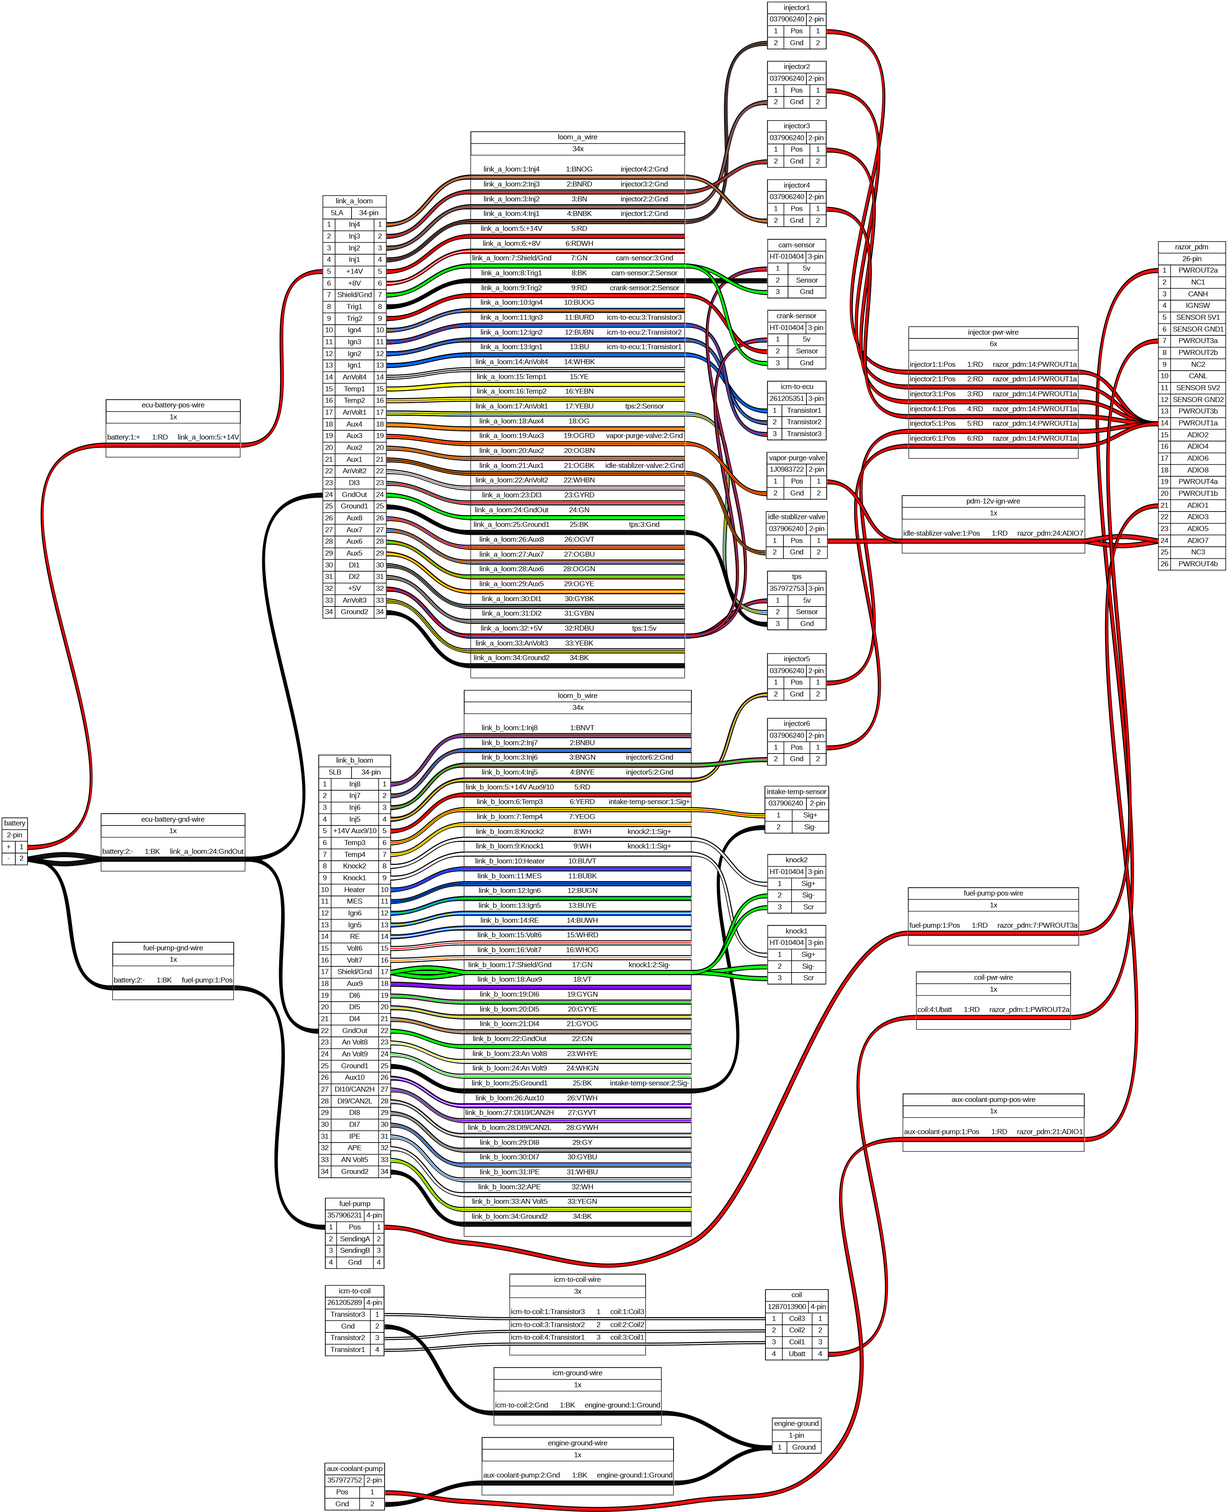
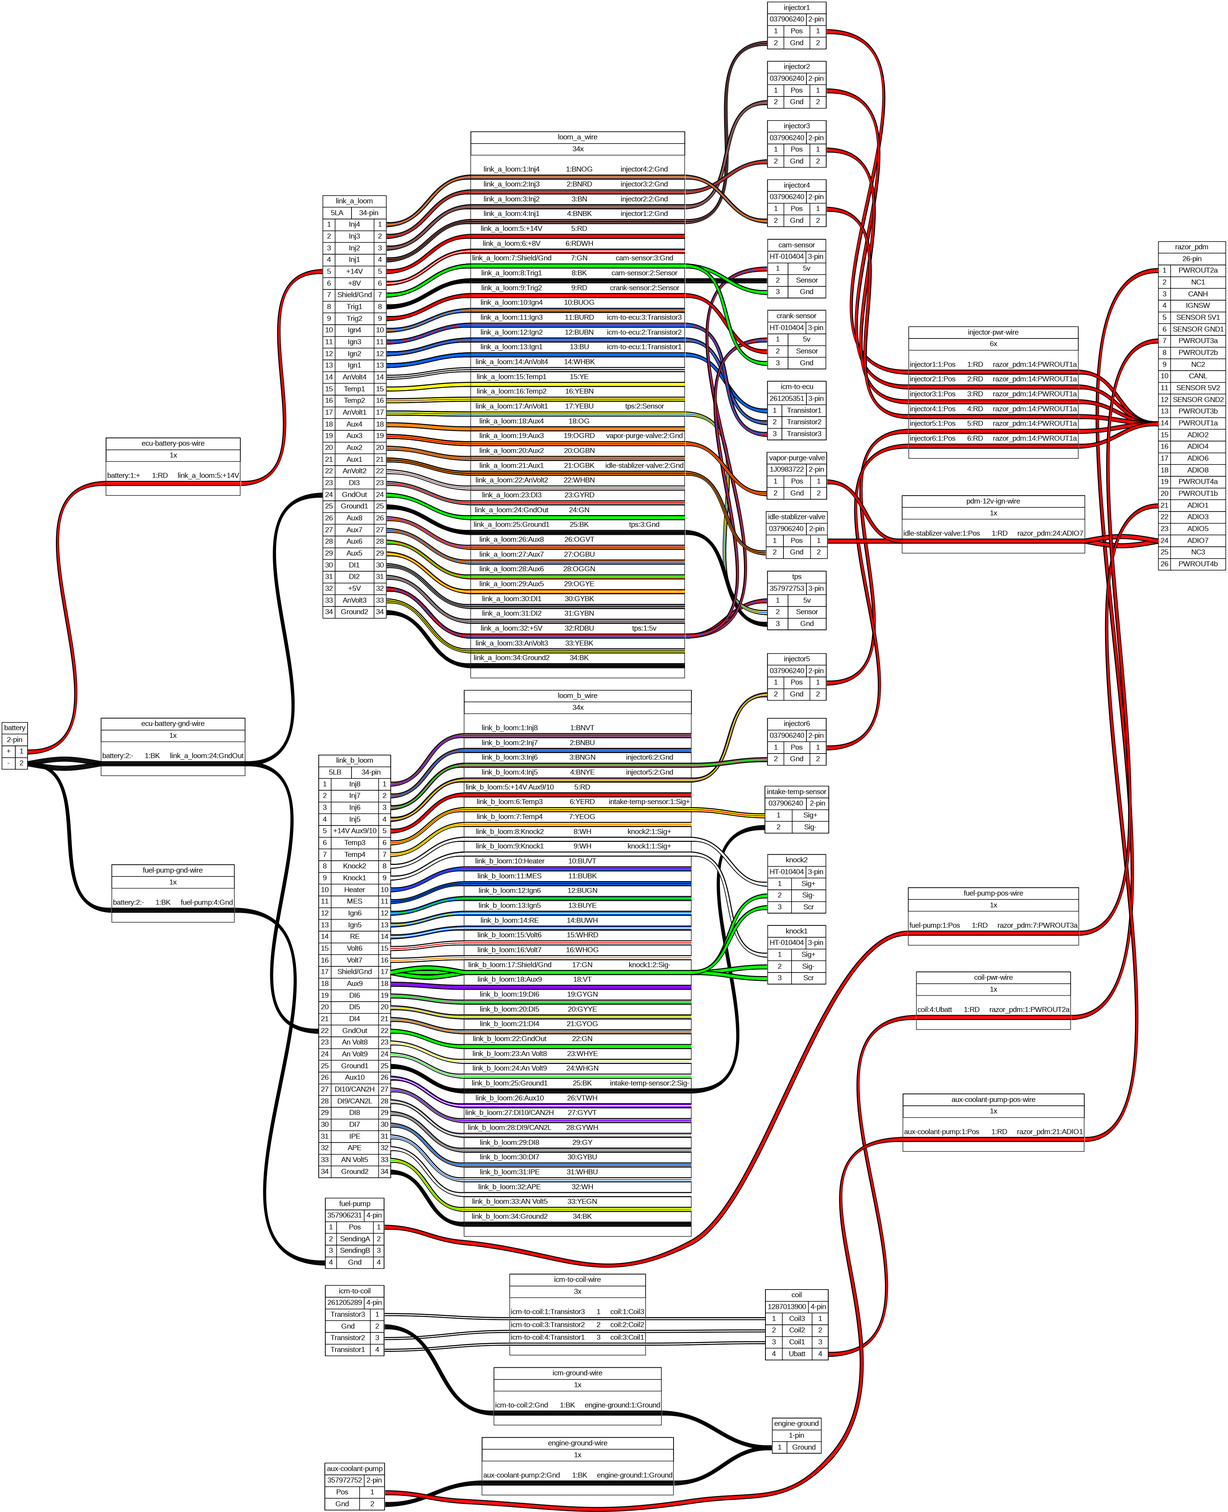
Ground the fuel pump to the battery

Changed region(s): [[0.0, 0.1869, 0.2495, 0.841]]

diff --git a/corrado.html b/corrado.html
@@ -18,112 +18,112 @@
 <!-- battery -->
 <g id="node1" class="node">
 <title>battery</title>
-<polygon fill="#ffffff" stroke="black" points="50,-1356 0,-1356 0,-1264 50,-1264 50,-1356"/>
-<polygon fill="none" stroke="black" points="0,-1333 0,-1356 50,-1356 50,-1333 0,-1333"/>
-<text text-anchor="start" x="4" y="-1340.8" font-family="arial" font-size="14.00">battery</text>
-<polygon fill="none" stroke="black" points="0,-1310 0,-1333 50,-1333 50,-1310 0,-1310"/>
-<text text-anchor="start" x="9.5" y="-1317.8" font-family="arial" font-size="14.00">2&#45;pin</text>
-<polygon fill="none" stroke="black" points="0,-1287 0,-1310 26,-1310 26,-1287 0,-1287"/>
-<text text-anchor="start" x="8.5" y="-1294.8" font-family="arial" font-size="14.00">+</text>
-<polygon fill="none" stroke="black" points="26,-1287 26,-1310 50,-1310 50,-1287 26,-1287"/>
-<text text-anchor="start" x="34" y="-1294.8" font-family="arial" font-size="14.00">1</text>
-<polygon fill="none" stroke="black" points="0,-1264 0,-1287 26,-1287 26,-1264 0,-1264"/>
-<text text-anchor="start" x="10.5" y="-1271.8" font-family="arial" font-size="14.00">&#45;</text>
-<polygon fill="none" stroke="black" points="26,-1264 26,-1287 50,-1287 50,-1264 26,-1264"/>
-<text text-anchor="start" x="34" y="-1271.8" font-family="arial" font-size="14.00">2</text>
+<polygon fill="#ffffff" stroke="black" points="50,-1543 0,-1543 0,-1451 50,-1451 50,-1543"/>
+<polygon fill="none" stroke="black" points="0,-1520 0,-1543 50,-1543 50,-1520 0,-1520"/>
+<text text-anchor="start" x="4" y="-1527.8" font-family="arial" font-size="14.00">battery</text>
+<polygon fill="none" stroke="black" points="0,-1497 0,-1520 50,-1520 50,-1497 0,-1497"/>
+<text text-anchor="start" x="9.5" y="-1504.8" font-family="arial" font-size="14.00">2&#45;pin</text>
+<polygon fill="none" stroke="black" points="0,-1474 0,-1497 26,-1497 26,-1474 0,-1474"/>
+<text text-anchor="start" x="8.5" y="-1481.8" font-family="arial" font-size="14.00">+</text>
+<polygon fill="none" stroke="black" points="26,-1474 26,-1497 50,-1497 50,-1474 26,-1474"/>
+<text text-anchor="start" x="34" y="-1481.8" font-family="arial" font-size="14.00">1</text>
+<polygon fill="none" stroke="black" points="0,-1451 0,-1474 26,-1474 26,-1451 0,-1451"/>
+<text text-anchor="start" x="10.5" y="-1458.8" font-family="arial" font-size="14.00">&#45;</text>
+<polygon fill="none" stroke="black" points="26,-1451 26,-1474 50,-1474 50,-1451 26,-1451"/>
+<text text-anchor="start" x="34" y="-1458.8" font-family="arial" font-size="14.00">2</text>
 </g>
 <!-- ecu&#45;battery&#45;pos&#45;wire -->
 <g id="node31" class="node">
 <title>ecu&#45;battery&#45;pos&#45;wire</title>
-<polygon fill="#ffffff" stroke="black" points="466.5,-2175.5 203.5,-2175.5 203.5,-2062.5 466.5,-2062.5 466.5,-2175.5"/>
-<polygon fill="none" stroke="black" points="204,-2152 204,-2175 467,-2175 467,-2152 204,-2152"/>
-<text text-anchor="start" x="273.5" y="-2159.8" font-family="arial" font-size="14.00">ecu&#45;battery&#45;pos&#45;wire</text>
-<polygon fill="none" stroke="black" points="204,-2129 204,-2152 467,-2152 467,-2129 204,-2129"/>
-<text text-anchor="start" x="328" y="-2136.8" font-family="arial" font-size="14.00">1x</text>
-<text text-anchor="start" x="236.5" y="-2115.8" font-family="arial" font-size="14.00"> </text>
-<text text-anchor="start" x="206" y="-2096.8" font-family="arial" font-size="14.00">battery:1:+</text>
-<text text-anchor="start" x="275" y="-2096.8" font-family="arial" font-size="14.00"> &#160;&#160;&#160;&#160;1:RD &#160;&#160;&#160;</text>
-<text text-anchor="start" x="344" y="-2096.8" font-family="arial" font-size="14.00">link_a_loom:5:+14V</text>
-<polygon fill="#000000" stroke="transparent" points="204,-2089 204,-2091 467,-2091 467,-2089 204,-2089"/>
-<polygon fill="#ff0000" stroke="transparent" points="204,-2087 204,-2089 467,-2089 467,-2087 204,-2087"/>
-<polygon fill="#ff0000" stroke="transparent" points="204,-2085 204,-2087 467,-2087 467,-2085 204,-2085"/>
-<polygon fill="#ff0000" stroke="transparent" points="204,-2083 204,-2085 467,-2085 467,-2083 204,-2083"/>
-<polygon fill="#000000" stroke="transparent" points="204,-2081 204,-2083 467,-2083 467,-2081 204,-2081"/>
-<text text-anchor="start" x="236.5" y="-2067.8" font-family="arial" font-size="14.00"> </text>
+<polygon fill="#ffffff" stroke="black" points="466.5,-2100.5 203.5,-2100.5 203.5,-1987.5 466.5,-1987.5 466.5,-2100.5"/>
+<polygon fill="none" stroke="black" points="204,-2077 204,-2100 467,-2100 467,-2077 204,-2077"/>
+<text text-anchor="start" x="273.5" y="-2084.8" font-family="arial" font-size="14.00">ecu&#45;battery&#45;pos&#45;wire</text>
+<polygon fill="none" stroke="black" points="204,-2054 204,-2077 467,-2077 467,-2054 204,-2054"/>
+<text text-anchor="start" x="328" y="-2061.8" font-family="arial" font-size="14.00">1x</text>
+<text text-anchor="start" x="236.5" y="-2040.8" font-family="arial" font-size="14.00"> </text>
+<text text-anchor="start" x="206" y="-2021.8" font-family="arial" font-size="14.00">battery:1:+</text>
+<text text-anchor="start" x="275" y="-2021.8" font-family="arial" font-size="14.00"> &#160;&#160;&#160;&#160;1:RD &#160;&#160;&#160;</text>
+<text text-anchor="start" x="344" y="-2021.8" font-family="arial" font-size="14.00">link_a_loom:5:+14V</text>
+<polygon fill="#000000" stroke="transparent" points="204,-2014 204,-2016 467,-2016 467,-2014 204,-2014"/>
+<polygon fill="#ff0000" stroke="transparent" points="204,-2012 204,-2014 467,-2014 467,-2012 204,-2012"/>
+<polygon fill="#ff0000" stroke="transparent" points="204,-2010 204,-2012 467,-2012 467,-2010 204,-2010"/>
+<polygon fill="#ff0000" stroke="transparent" points="204,-2008 204,-2010 467,-2010 467,-2008 204,-2008"/>
+<polygon fill="#000000" stroke="transparent" points="204,-2006 204,-2008 467,-2008 467,-2006 204,-2006"/>
+<text text-anchor="start" x="236.5" y="-1992.8" font-family="arial" font-size="14.00"> </text>
 </g>
 <!-- battery&#45;&#45;ecu&#45;battery&#45;pos&#45;wire -->
 <g id="edge137" class="edge">
 <title>battery:e&#45;&#45;ecu&#45;battery&#45;pos&#45;wire:w</title>
-<path fill="none" stroke="#000000" stroke-width="2" d="M50,-1294C410.02,-1300.32 -150.5,-2088.32 203,-2082"/>
-<path fill="none" stroke="#ff0000" stroke-width="2" d="M50,-1296C408.39,-1299.16 -152.13,-2087.16 203,-2084"/>
-<path fill="none" stroke="#ff0000" stroke-width="2" d="M50,-1298C406.76,-1298 -153.76,-2086 203,-2086"/>
-<path fill="none" stroke="#ff0000" stroke-width="2" d="M50,-1300C405.13,-1296.84 -155.39,-2084.84 203,-2088"/>
-<path fill="none" stroke="#000000" stroke-width="2" d="M50,-1302C403.5,-1295.68 -157.02,-2083.68 203,-2090"/>
+<path fill="none" stroke="#000000" stroke-width="2" d="M50,-1481C296.84,-1487.14 -37.09,-2013.14 203,-2007"/>
+<path fill="none" stroke="#ff0000" stroke-width="2" d="M50,-1483C295.16,-1486.07 -38.78,-2012.07 203,-2009"/>
+<path fill="none" stroke="#ff0000" stroke-width="2" d="M50,-1485C293.47,-1485 -40.47,-2011 203,-2011"/>
+<path fill="none" stroke="#ff0000" stroke-width="2" d="M50,-1487C291.78,-1483.93 -42.16,-2009.93 203,-2013"/>
+<path fill="none" stroke="#000000" stroke-width="2" d="M50,-1489C290.09,-1482.86 -43.84,-2008.86 203,-2015"/>
 </g>
 <!-- ecu&#45;battery&#45;gnd&#45;wire -->
 <g id="node32" class="node">
 <title>ecu&#45;battery&#45;gnd&#45;wire</title>
-<polygon fill="#ffffff" stroke="black" points="476,-1364.5 194,-1364.5 194,-1251.5 476,-1251.5 476,-1364.5"/>
-<polygon fill="none" stroke="black" points="194,-1341 194,-1364 476,-1364 476,-1341 194,-1341"/>
-<text text-anchor="start" x="273" y="-1348.8" font-family="arial" font-size="14.00">ecu&#45;battery&#45;gnd&#45;wire</text>
-<polygon fill="none" stroke="black" points="194,-1318 194,-1341 476,-1341 476,-1318 194,-1318"/>
-<text text-anchor="start" x="327.5" y="-1325.8" font-family="arial" font-size="14.00">1x</text>
-<text text-anchor="start" x="224.5" y="-1304.8" font-family="arial" font-size="14.00"> </text>
-<text text-anchor="start" x="196" y="-1285.8" font-family="arial" font-size="14.00">battery:2:&#45;</text>
-<text text-anchor="start" x="261" y="-1285.8" font-family="arial" font-size="14.00"> &#160;&#160;&#160;&#160;1:BK &#160;&#160;&#160;</text>
-<text text-anchor="start" x="329" y="-1285.8" font-family="arial" font-size="14.00">link_a_loom:24:GndOut</text>
-<polygon fill="#000000" stroke="transparent" points="194,-1278 194,-1280 476,-1280 476,-1278 194,-1278"/>
-<polygon fill="#000000" stroke="transparent" points="194,-1276 194,-1278 476,-1278 476,-1276 194,-1276"/>
-<polygon fill="#000000" stroke="transparent" points="194,-1274 194,-1276 476,-1276 476,-1274 194,-1274"/>
-<polygon fill="#000000" stroke="transparent" points="194,-1272 194,-1274 476,-1274 476,-1272 194,-1272"/>
-<polygon fill="#000000" stroke="transparent" points="194,-1270 194,-1272 476,-1272 476,-1270 194,-1270"/>
-<text text-anchor="start" x="224.5" y="-1256.8" font-family="arial" font-size="14.00"> </text>
+<polygon fill="#ffffff" stroke="black" points="476,-1551.5 194,-1551.5 194,-1438.5 476,-1438.5 476,-1551.5"/>
+<polygon fill="none" stroke="black" points="194,-1528 194,-1551 476,-1551 476,-1528 194,-1528"/>
+<text text-anchor="start" x="273" y="-1535.8" font-family="arial" font-size="14.00">ecu&#45;battery&#45;gnd&#45;wire</text>
+<polygon fill="none" stroke="black" points="194,-1505 194,-1528 476,-1528 476,-1505 194,-1505"/>
+<text text-anchor="start" x="327.5" y="-1512.8" font-family="arial" font-size="14.00">1x</text>
+<text text-anchor="start" x="224.5" y="-1491.8" font-family="arial" font-size="14.00"> </text>
+<text text-anchor="start" x="196" y="-1472.8" font-family="arial" font-size="14.00">battery:2:&#45;</text>
+<text text-anchor="start" x="261" y="-1472.8" font-family="arial" font-size="14.00"> &#160;&#160;&#160;&#160;1:BK &#160;&#160;&#160;</text>
+<text text-anchor="start" x="329" y="-1472.8" font-family="arial" font-size="14.00">link_a_loom:24:GndOut</text>
+<polygon fill="#000000" stroke="transparent" points="194,-1465 194,-1467 476,-1467 476,-1465 194,-1465"/>
+<polygon fill="#000000" stroke="transparent" points="194,-1463 194,-1465 476,-1465 476,-1463 194,-1463"/>
+<polygon fill="#000000" stroke="transparent" points="194,-1461 194,-1463 476,-1463 476,-1461 194,-1461"/>
+<polygon fill="#000000" stroke="transparent" points="194,-1459 194,-1461 476,-1461 476,-1459 194,-1459"/>
+<polygon fill="#000000" stroke="transparent" points="194,-1457 194,-1459 476,-1459 476,-1457 194,-1457"/>
+<text text-anchor="start" x="224.5" y="-1443.8" font-family="arial" font-size="14.00"> </text>
 </g>
 <!-- battery&#45;&#45;ecu&#45;battery&#45;gnd&#45;wire -->
 <g id="edge139" class="edge">
 <title>battery:e&#45;&#45;ecu&#45;battery&#45;gnd&#45;wire:w</title>
-<path fill="none" stroke="#000000" stroke-width="2" d="M49.26,-1271.07C114,-1259 130,-1259 194.74,-1271.07"/>
-<path fill="none" stroke="#000000" stroke-width="2" d="M49.63,-1273.03C114,-1261 130,-1261 194.37,-1273.03"/>
-<path fill="none" stroke="#000000" stroke-width="2" d="M50,-1275C114,-1263 130,-1263 194,-1275"/>
-<path fill="none" stroke="#000000" stroke-width="2" d="M50.37,-1276.97C114,-1265 130,-1265 193.63,-1276.97"/>
-<path fill="none" stroke="#000000" stroke-width="2" d="M50.74,-1278.93C114,-1267 130,-1267 193.26,-1278.93"/>
+<path fill="none" stroke="#000000" stroke-width="2" d="M49.26,-1458.07C114,-1446 130,-1446 194.74,-1458.07"/>
+<path fill="none" stroke="#000000" stroke-width="2" d="M49.63,-1460.03C114,-1448 130,-1448 194.37,-1460.03"/>
+<path fill="none" stroke="#000000" stroke-width="2" d="M50,-1462C114,-1450 130,-1450 194,-1462"/>
+<path fill="none" stroke="#000000" stroke-width="2" d="M50.37,-1463.97C114,-1452 130,-1452 193.63,-1463.97"/>
+<path fill="none" stroke="#000000" stroke-width="2" d="M50.74,-1465.93C114,-1454 130,-1454 193.26,-1465.93"/>
 </g>
 <!-- battery&#45;&#45;ecu&#45;battery&#45;gnd&#45;wire -->
 <g id="edge141" class="edge">
 <title>battery:e&#45;&#45;ecu&#45;battery&#45;gnd&#45;wire:w</title>
-<path fill="none" stroke="#000000" stroke-width="2" d="M50.74,-1271.07C114,-1283 130,-1283 193.26,-1271.07"/>
-<path fill="none" stroke="#000000" stroke-width="2" d="M50.37,-1273.03C114,-1285 130,-1285 193.63,-1273.03"/>
-<path fill="none" stroke="#000000" stroke-width="2" d="M50,-1275C114,-1287 130,-1287 194,-1275"/>
-<path fill="none" stroke="#000000" stroke-width="2" d="M49.63,-1276.97C114,-1289 130,-1289 194.37,-1276.97"/>
-<path fill="none" stroke="#000000" stroke-width="2" d="M49.26,-1278.93C114,-1291 130,-1291 194.74,-1278.93"/>
+<path fill="none" stroke="#000000" stroke-width="2" d="M50.74,-1458.07C114,-1470 130,-1470 193.26,-1458.07"/>
+<path fill="none" stroke="#000000" stroke-width="2" d="M50.37,-1460.03C114,-1472 130,-1472 193.63,-1460.03"/>
+<path fill="none" stroke="#000000" stroke-width="2" d="M50,-1462C114,-1474 130,-1474 194,-1462"/>
+<path fill="none" stroke="#000000" stroke-width="2" d="M49.63,-1463.97C114,-1476 130,-1476 194.37,-1463.97"/>
+<path fill="none" stroke="#000000" stroke-width="2" d="M49.26,-1465.93C114,-1478 130,-1478 194.74,-1465.93"/>
 </g>
 <!-- fuel&#45;pump&#45;gnd&#45;wire -->
 <g id="node37" class="node">
 <title>fuel&#45;pump&#45;gnd&#45;wire</title>
-<polygon fill="#ffffff" stroke="black" points="453.5,-1112.5 216.5,-1112.5 216.5,-999.5 453.5,-999.5 453.5,-1112.5"/>
-<polygon fill="none" stroke="black" points="217,-1089 217,-1112 454,-1112 454,-1089 217,-1089"/>
-<text text-anchor="start" x="276.5" y="-1096.8" font-family="arial" font-size="14.00">fuel&#45;pump&#45;gnd&#45;wire</text>
-<polygon fill="none" stroke="black" points="217,-1066 217,-1089 454,-1089 454,-1066 217,-1066"/>
-<text text-anchor="start" x="328" y="-1073.8" font-family="arial" font-size="14.00">1x</text>
-<text text-anchor="start" x="247.5" y="-1052.8" font-family="arial" font-size="14.00"> </text>
-<text text-anchor="start" x="219" y="-1033.8" font-family="arial" font-size="14.00">battery:2:&#45;</text>
-<text text-anchor="start" x="284" y="-1033.8" font-family="arial" font-size="14.00"> &#160;&#160;&#160;&#160;1:BK &#160;&#160;&#160;</text>
-<text text-anchor="start" x="352" y="-1033.8" font-family="arial" font-size="14.00">fuel&#45;pump:1:Pos</text>
-<polygon fill="#000000" stroke="transparent" points="217,-1026 217,-1028 454,-1028 454,-1026 217,-1026"/>
-<polygon fill="#000000" stroke="transparent" points="217,-1024 217,-1026 454,-1026 454,-1024 217,-1024"/>
-<polygon fill="#000000" stroke="transparent" points="217,-1022 217,-1024 454,-1024 454,-1022 217,-1022"/>
-<polygon fill="#000000" stroke="transparent" points="217,-1020 217,-1022 454,-1022 454,-1020 217,-1020"/>
-<polygon fill="#000000" stroke="transparent" points="217,-1018 217,-1020 454,-1020 454,-1018 217,-1018"/>
-<text text-anchor="start" x="247.5" y="-1004.8" font-family="arial" font-size="14.00"> </text>
+<polygon fill="#ffffff" stroke="black" points="455,-1264.5 215,-1264.5 215,-1151.5 455,-1151.5 455,-1264.5"/>
+<polygon fill="none" stroke="black" points="215,-1241 215,-1264 455,-1264 455,-1241 215,-1241"/>
+<text text-anchor="start" x="276" y="-1248.8" font-family="arial" font-size="14.00">fuel&#45;pump&#45;gnd&#45;wire</text>
+<polygon fill="none" stroke="black" points="215,-1218 215,-1241 455,-1241 455,-1218 215,-1218"/>
+<text text-anchor="start" x="327.5" y="-1225.8" font-family="arial" font-size="14.00">1x</text>
+<text text-anchor="start" x="245.5" y="-1204.8" font-family="arial" font-size="14.00"> </text>
+<text text-anchor="start" x="217" y="-1185.8" font-family="arial" font-size="14.00">battery:2:&#45;</text>
+<text text-anchor="start" x="282" y="-1185.8" font-family="arial" font-size="14.00"> &#160;&#160;&#160;&#160;1:BK &#160;&#160;&#160;</text>
+<text text-anchor="start" x="350" y="-1185.8" font-family="arial" font-size="14.00">fuel&#45;pump:4:Gnd</text>
+<polygon fill="#000000" stroke="transparent" points="215,-1178 215,-1180 455,-1180 455,-1178 215,-1178"/>
+<polygon fill="#000000" stroke="transparent" points="215,-1176 215,-1178 455,-1178 455,-1176 215,-1176"/>
+<polygon fill="#000000" stroke="transparent" points="215,-1174 215,-1176 455,-1176 455,-1174 215,-1174"/>
+<polygon fill="#000000" stroke="transparent" points="215,-1172 215,-1174 455,-1174 455,-1172 215,-1172"/>
+<polygon fill="#000000" stroke="transparent" points="215,-1170 215,-1172 455,-1172 455,-1170 215,-1170"/>
+<text text-anchor="start" x="245.5" y="-1156.8" font-family="arial" font-size="14.00"> </text>
 </g>
 <!-- battery&#45;&#45;fuel&#45;pump&#45;gnd&#45;wire -->
 <g id="edge163" class="edge">
 <title>battery:e&#45;&#45;fuel&#45;pump&#45;gnd&#45;wire:w</title>
-<path fill="none" stroke="#000000" stroke-width="2" d="M50,-1271C180.41,-1276.5 78.18,-1024.5 216,-1019"/>
-<path fill="none" stroke="#000000" stroke-width="2" d="M50,-1273C182.26,-1275.75 80.03,-1023.75 216,-1021"/>
-<path fill="none" stroke="#000000" stroke-width="2" d="M50,-1275C184.12,-1275 81.88,-1023 216,-1023"/>
-<path fill="none" stroke="#000000" stroke-width="2" d="M50,-1277C185.97,-1274.25 83.74,-1022.25 216,-1025"/>
-<path fill="none" stroke="#000000" stroke-width="2" d="M50,-1279C187.82,-1273.5 85.59,-1021.5 216,-1027"/>
+<path fill="none" stroke="#000000" stroke-width="2" d="M50,-1458C193.27,-1463.65 63.44,-1176.65 214,-1171"/>
+<path fill="none" stroke="#000000" stroke-width="2" d="M50,-1460C195.09,-1462.82 65.27,-1175.82 214,-1173"/>
+<path fill="none" stroke="#000000" stroke-width="2" d="M50,-1462C196.91,-1462 67.09,-1175 214,-1175"/>
+<path fill="none" stroke="#000000" stroke-width="2" d="M50,-1464C198.73,-1461.18 68.91,-1174.18 214,-1177"/>
+<path fill="none" stroke="#000000" stroke-width="2" d="M50,-1466C200.56,-1460.35 70.73,-1173.35 214,-1179"/>
 </g>
 <!-- link_a_loom -->
 <g id="node2" class="node">
@@ -3165,29 +3165,29 @@
 <!-- ecu&#45;battery&#45;pos&#45;wire&#45;&#45;link_a_loom -->
 <g id="edge138" class="edge">
 <title>ecu&#45;battery&#45;pos&#45;wire:e&#45;&#45;link_a_loom:w</title>
-<path fill="none" stroke="#000000" stroke-width="2" d="M468,-2082C638.47,-2087.82 464.15,-2427.82 627.5,-2422"/>
-<path fill="none" stroke="#ff0000" stroke-width="2" d="M468,-2084C636.69,-2086.91 462.37,-2426.91 627.5,-2424"/>
-<path fill="none" stroke="#ff0000" stroke-width="2" d="M468,-2086C634.91,-2086 460.59,-2426 627.5,-2426"/>
-<path fill="none" stroke="#ff0000" stroke-width="2" d="M468,-2088C633.13,-2085.09 458.81,-2425.09 627.5,-2428"/>
-<path fill="none" stroke="#000000" stroke-width="2" d="M468,-2090C631.35,-2084.18 457.03,-2424.18 627.5,-2430"/>
+<path fill="none" stroke="#000000" stroke-width="2" d="M468,-2007C669.08,-2012.98 433.38,-2427.98 627.5,-2422"/>
+<path fill="none" stroke="#ff0000" stroke-width="2" d="M468,-2009C667.34,-2011.99 431.64,-2426.99 627.5,-2424"/>
+<path fill="none" stroke="#ff0000" stroke-width="2" d="M468,-2011C665.6,-2011 429.9,-2426 627.5,-2426"/>
+<path fill="none" stroke="#ff0000" stroke-width="2" d="M468,-2013C663.86,-2010.01 428.16,-2425.01 627.5,-2428"/>
+<path fill="none" stroke="#000000" stroke-width="2" d="M468,-2015C662.12,-2009.02 426.42,-2424.02 627.5,-2430"/>
 </g>
 <!-- ecu&#45;battery&#45;gnd&#45;wire&#45;&#45;link_a_loom -->
 <g id="edge140" class="edge">
 <title>ecu&#45;battery&#45;gnd&#45;wire:e&#45;&#45;link_a_loom:w</title>
-<path fill="none" stroke="#000000" stroke-width="2" d="M476,-1271C803.25,-1277.29 306.82,-1990.29 627.5,-1984"/>
-<path fill="none" stroke="#000000" stroke-width="2" d="M476,-1273C801.6,-1276.14 305.18,-1989.14 627.5,-1986"/>
-<path fill="none" stroke="#000000" stroke-width="2" d="M476,-1275C799.96,-1275 303.54,-1988 627.5,-1988"/>
-<path fill="none" stroke="#000000" stroke-width="2" d="M476,-1277C798.32,-1273.86 301.9,-1986.86 627.5,-1990"/>
-<path fill="none" stroke="#000000" stroke-width="2" d="M476,-1279C796.68,-1272.71 300.25,-1985.71 627.5,-1992"/>
+<path fill="none" stroke="#000000" stroke-width="2" d="M476,-1458C722.66,-1464.15 387.59,-1990.15 627.5,-1984"/>
+<path fill="none" stroke="#000000" stroke-width="2" d="M476,-1460C720.97,-1463.07 385.91,-1989.07 627.5,-1986"/>
+<path fill="none" stroke="#000000" stroke-width="2" d="M476,-1462C719.28,-1462 384.22,-1988 627.5,-1988"/>
+<path fill="none" stroke="#000000" stroke-width="2" d="M476,-1464C717.59,-1460.93 382.53,-1986.93 627.5,-1990"/>
+<path fill="none" stroke="#000000" stroke-width="2" d="M476,-1466C715.91,-1459.85 380.84,-1985.85 627.5,-1992"/>
 </g>
 <!-- ecu&#45;battery&#45;gnd&#45;wire&#45;&#45;link_b_loom -->
 <g id="edge142" class="edge">
 <title>ecu&#45;battery&#45;gnd&#45;wire:e&#45;&#45;link_b_loom:w</title>
-<path fill="none" stroke="#000000" stroke-width="2" d="M476,-1271C635.36,-1276.9 453.6,-939.9 620,-934"/>
-<path fill="none" stroke="#000000" stroke-width="2" d="M476,-1273C637.12,-1275.95 455.36,-938.95 620,-936"/>
-<path fill="none" stroke="#000000" stroke-width="2" d="M476,-1275C638.88,-1275 457.12,-938 620,-938"/>
-<path fill="none" stroke="#000000" stroke-width="2" d="M476,-1277C640.64,-1274.05 458.88,-937.05 620,-940"/>
-<path fill="none" stroke="#000000" stroke-width="2" d="M476,-1279C642.4,-1273.1 460.64,-936.1 620,-942"/>
+<path fill="none" stroke="#000000" stroke-width="2" d="M476,-1458C714.16,-1464.17 375.12,-940.17 620,-934"/>
+<path fill="none" stroke="#000000" stroke-width="2" d="M476,-1460C715.84,-1463.09 376.8,-939.09 620,-936"/>
+<path fill="none" stroke="#000000" stroke-width="2" d="M476,-1462C717.52,-1462 378.48,-938 620,-938"/>
+<path fill="none" stroke="#000000" stroke-width="2" d="M476,-1464C719.2,-1460.91 380.16,-936.91 620,-940"/>
+<path fill="none" stroke="#000000" stroke-width="2" d="M476,-1466C720.88,-1459.83 381.84,-935.83 620,-942"/>
 </g>
 <!-- injector&#45;pwr&#45;wire&#45;&#45;razor_pdm -->
 <g id="edge144" class="edge">
@@ -3282,11 +3282,11 @@
 <!-- fuel&#45;pump&#45;gnd&#45;wire&#45;&#45;fuel&#45;pump -->
 <g id="edge164" class="edge">
 <title>fuel&#45;pump&#45;gnd&#45;wire:e&#45;&#45;fuel&#45;pump:w</title>
-<path fill="none" stroke="#000000" stroke-width="2" d="M455,-1019C674.4,-1024.99 406.15,-555.99 632.5,-550"/>
-<path fill="none" stroke="#000000" stroke-width="2" d="M455,-1021C676.14,-1023.99 407.89,-554.99 632.5,-552"/>
-<path fill="none" stroke="#000000" stroke-width="2" d="M455,-1023C677.87,-1023 409.63,-554 632.5,-554"/>
-<path fill="none" stroke="#000000" stroke-width="2" d="M455,-1025C679.61,-1022.01 411.36,-553.01 632.5,-556"/>
-<path fill="none" stroke="#000000" stroke-width="2" d="M455,-1027C681.35,-1021.01 413.1,-552.01 632.5,-558"/>
+<path fill="none" stroke="#000000" stroke-width="2" d="M456,-1171C769.64,-1177.21 312.19,-486.21 632.5,-480"/>
+<path fill="none" stroke="#000000" stroke-width="2" d="M456,-1173C771.3,-1176.1 313.86,-485.1 632.5,-482"/>
+<path fill="none" stroke="#000000" stroke-width="2" d="M456,-1175C772.97,-1175 315.53,-484 632.5,-484"/>
+<path fill="none" stroke="#000000" stroke-width="2" d="M456,-1177C774.64,-1173.9 317.2,-482.9 632.5,-486"/>
+<path fill="none" stroke="#000000" stroke-width="2" d="M456,-1179C776.31,-1172.79 318.86,-481.79 632.5,-488"/>
 </g>
 </g>
 </svg>
